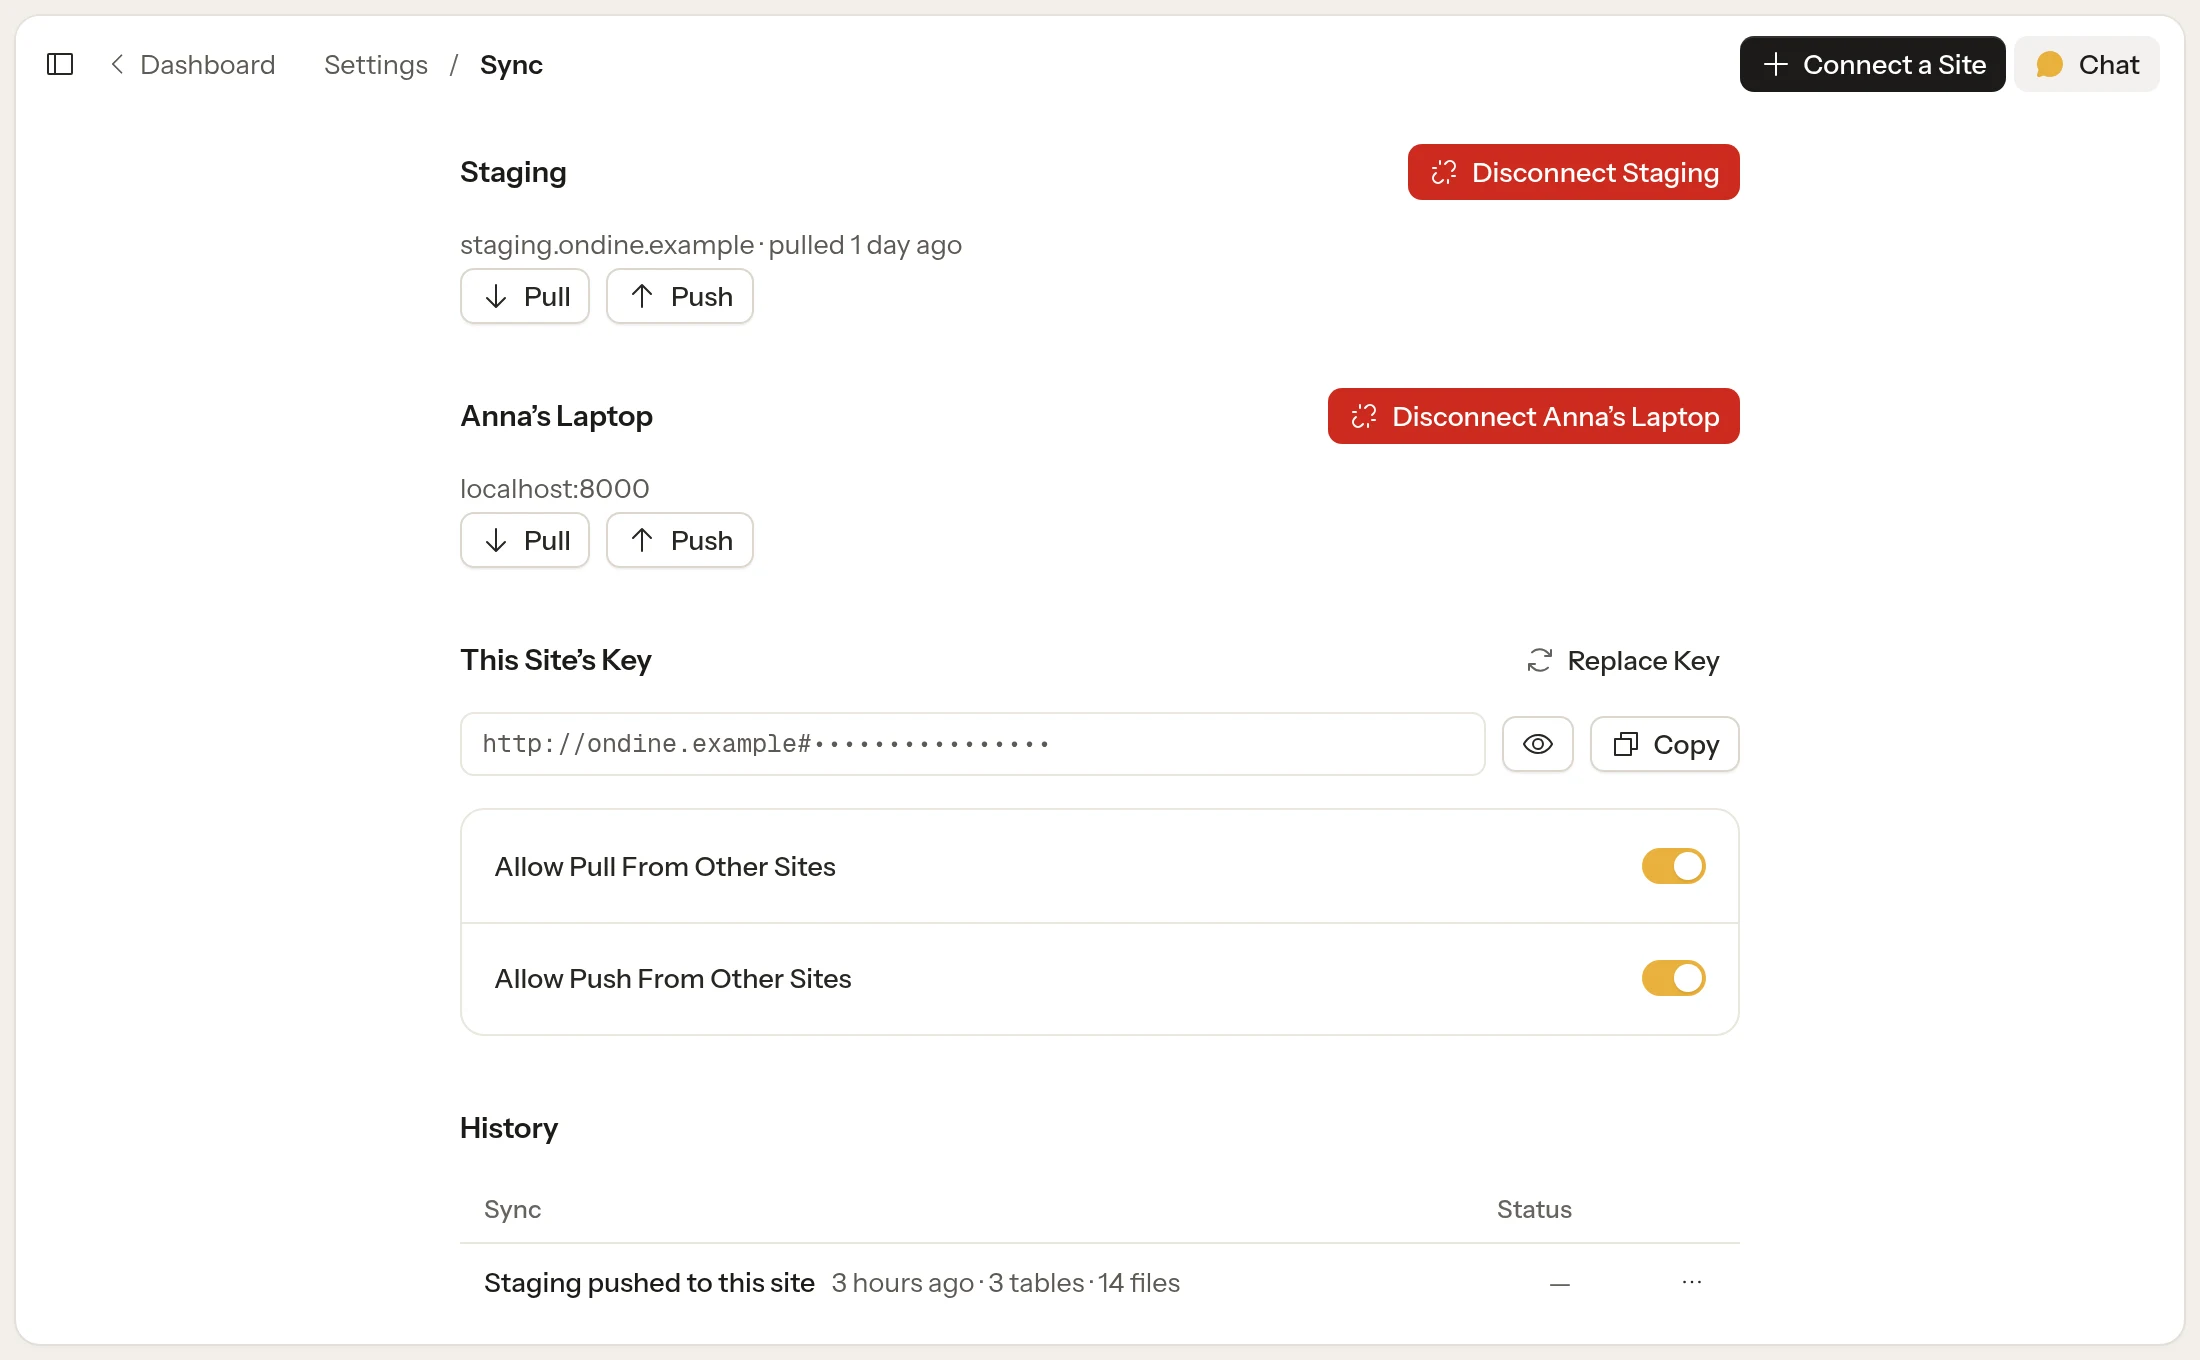
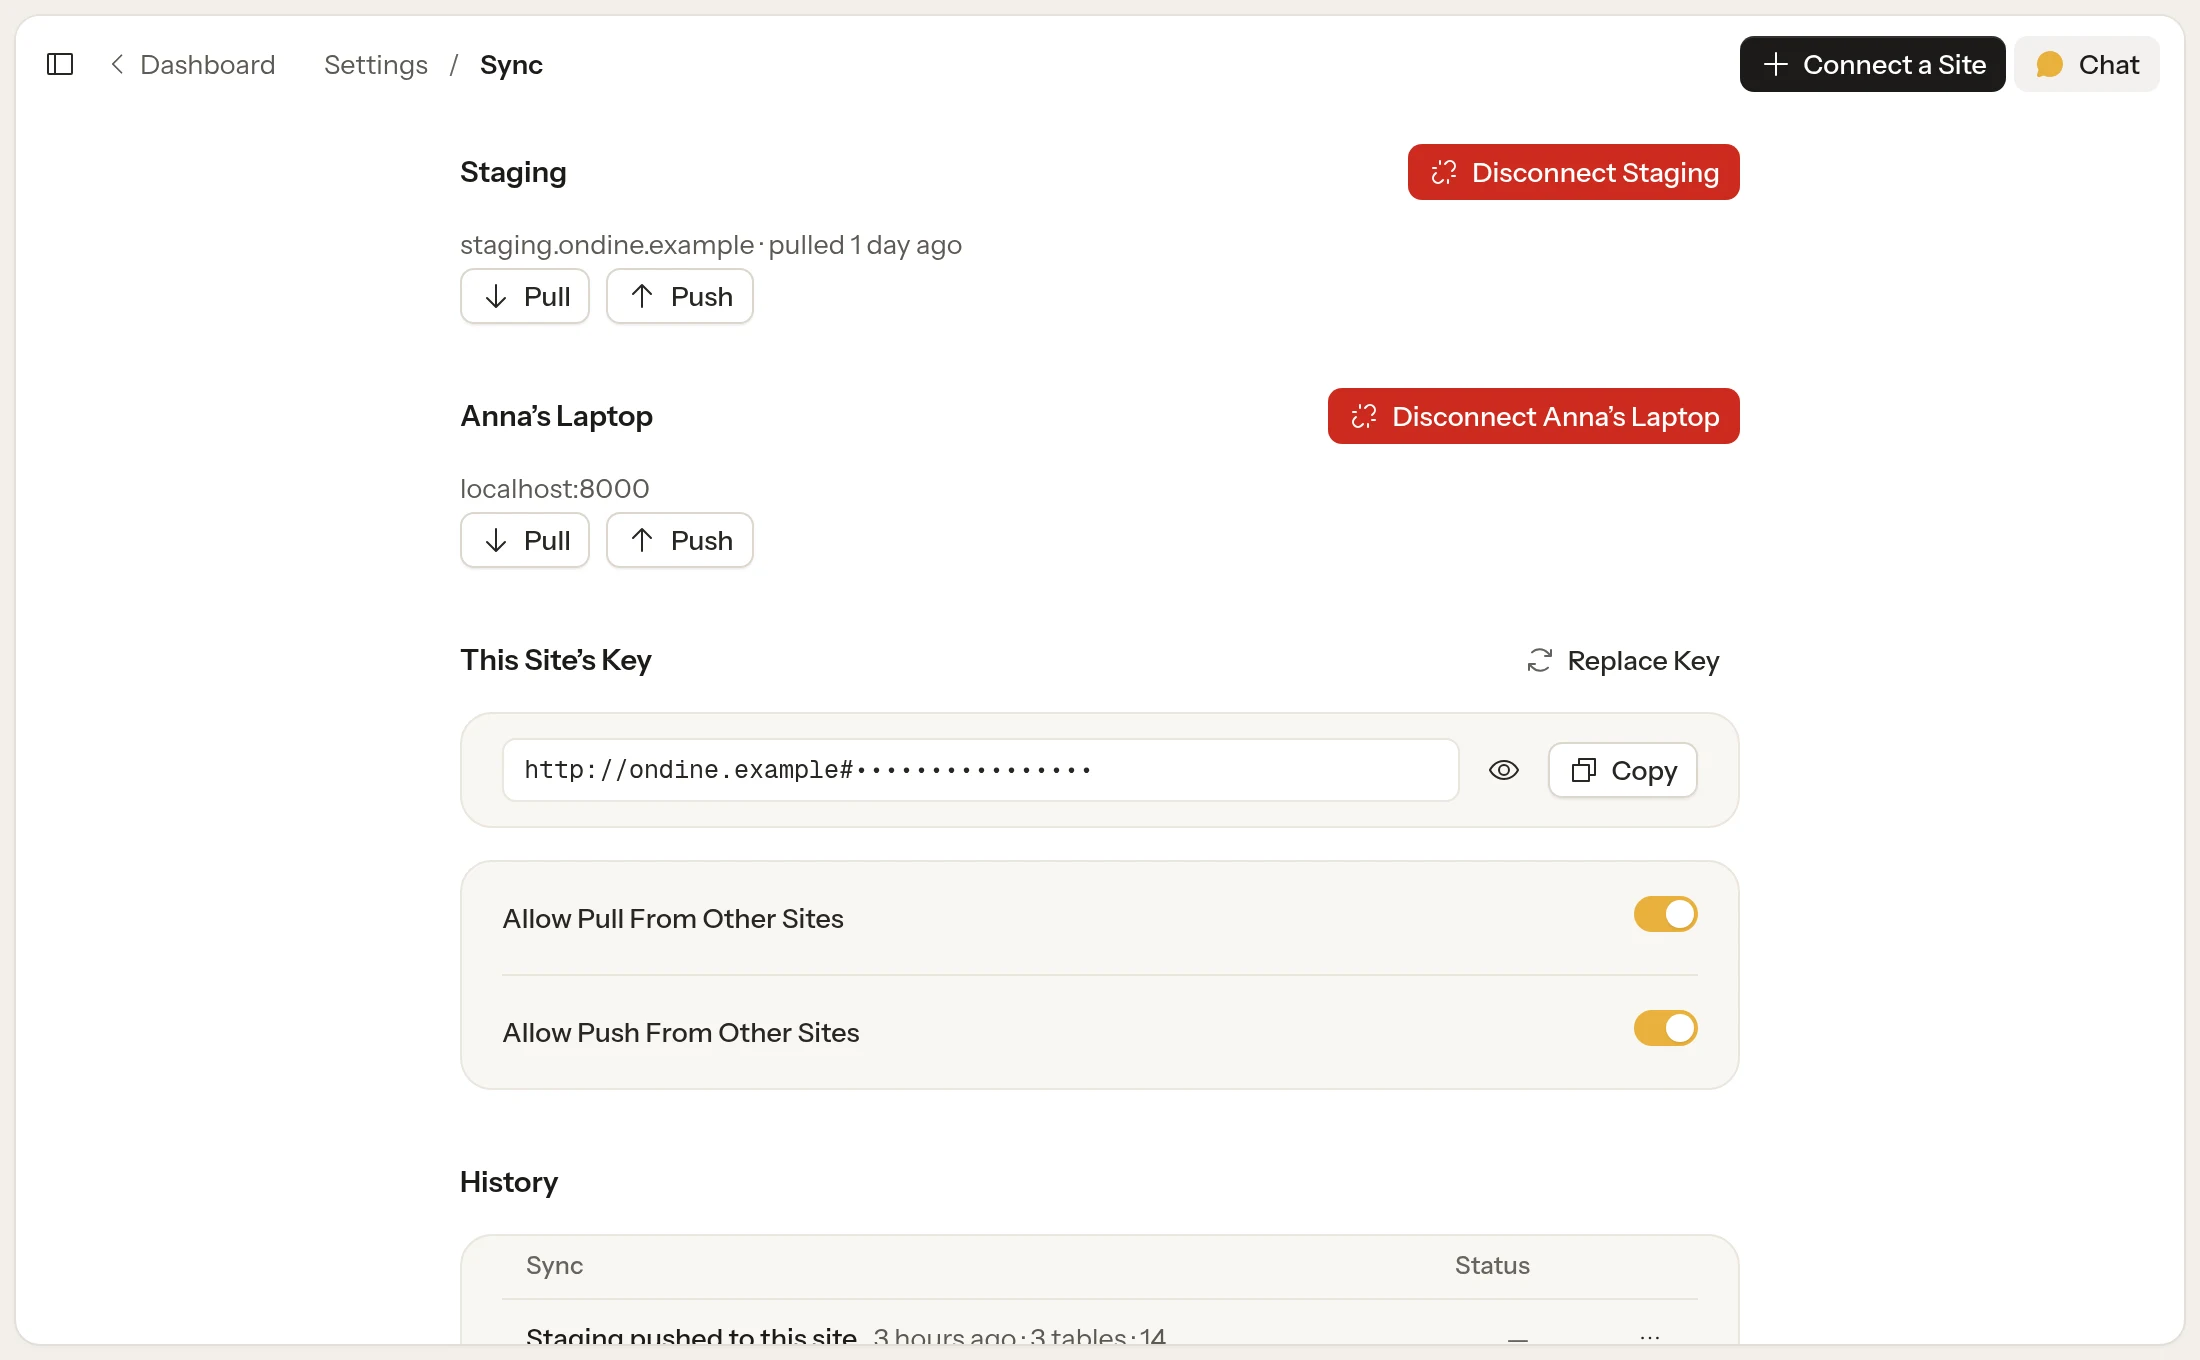
Document and show the redesigned settings panels

diff --git a/content/collections/docs/plugins/settings.md b/content/collections/docs/plugins/settings.md
@@ -20,9 +20,9 @@ $this->cms()->settingsRegistry()->register('reviews', fields: [
 
 That's all it takes for **Reviews** to appear under **Plugins** in the settings sidebar. The page is called what the plugin is, `extra.cms.label` in its `composer.json`, unless you pass a label. People change the fields and save from the save bar that rises while something changed, with **Discard** and **Save** (`⌘S`).
 
-![The SEO plugin's settings page: a form drawn from the fields the plugin registered.](/media/screens/plugins-settings.webp "The SEO plugin's settings are a list of fields like this one.")
+![The SEO plugin's settings grouped into panels.](/media/screens/plugins-settings.webp)
 
-Fields use the same format as everywhere else in Lettern, including `if` conditions, `width` and `dynamic` options. See [Field types](/reference/field-types).
+Fields use the same format as elsewhere in Lettern, including `if` conditions and `dynamic` options. Give consecutive fields the same `section` to put them in one panel under that heading. Each field gets its own row, with larger editors using the full width. A section disappears when all its fields are hidden. See [Field types](/reference/field-types).
 
 ### A value per language
 
@@ -84,7 +84,7 @@ const [tab, setTab] = useScreenTabs(['list'])
 
 ### Tabs and actions
 
-A settings page is a [view](/plugins/views), `settings`, with its form as the first tab, **Settings**. Add a tab or a button in its bar as data, with the `view.settings` filter and `SettingsModule::withTab()` or `withAction()`. SEO's **Redirects** is a tab like this:
+A settings page is a [view](/plugins/views), `settings`, with its form as the first tab, **General**. Add a tab or a button in its bar as data, with the `view.settings` filter and `SettingsModule::withTab()` or `withAction()`. SEO's **Redirects** is a tab like this:
 
 ```php
 use Cms\Modules\Settings\SettingsModule;
